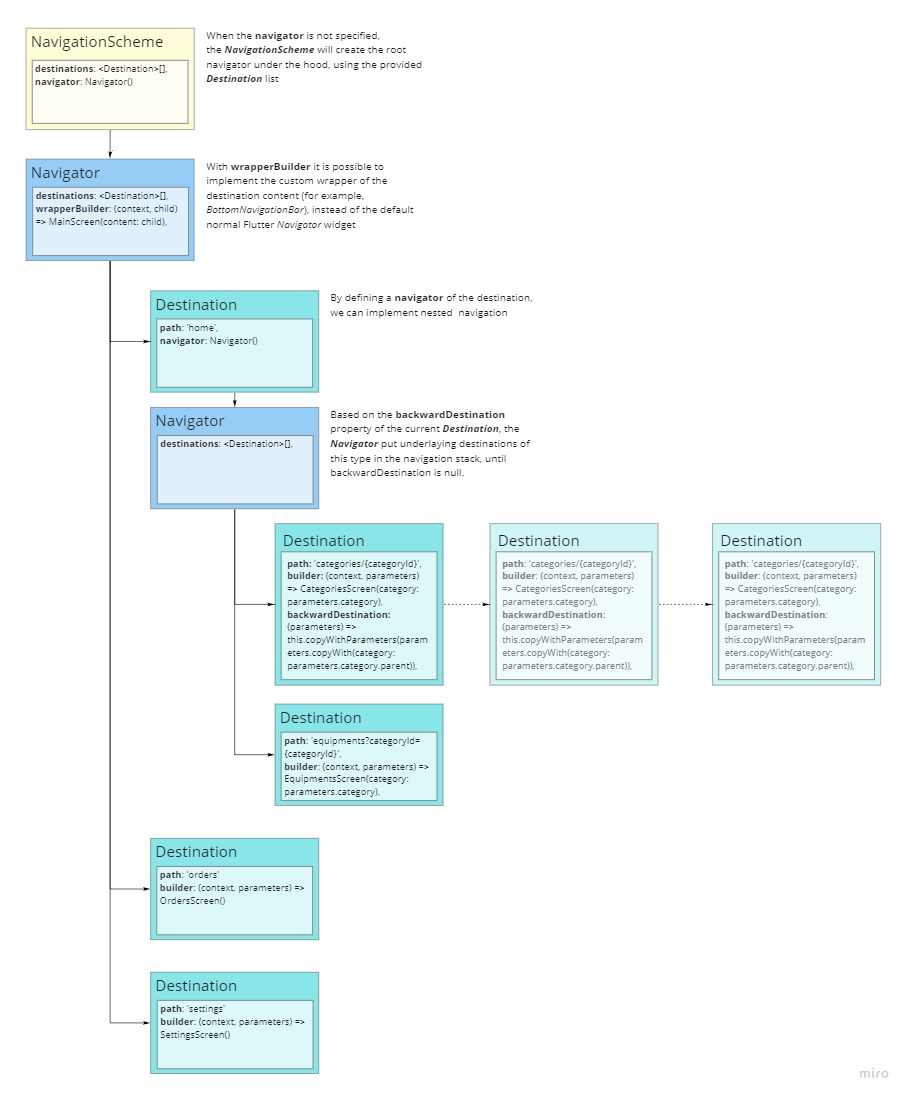
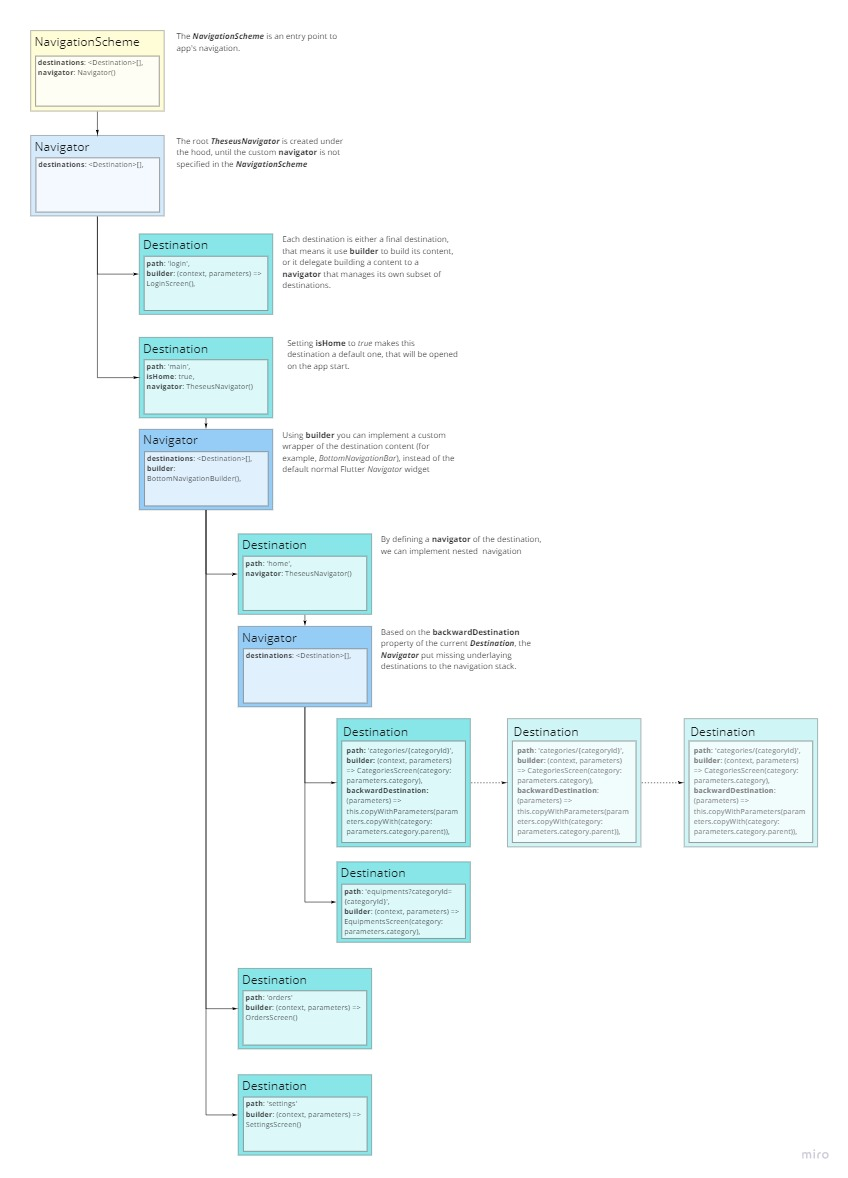
Refactor building the navigator

Changed region(s): [[0.0, 0.0, 0.9811, 0.99]]

diff --git a/lib/navigator.dart b/lib/navigator.dart
@@ -1,6 +1,7 @@
 import 'dart:collection';
 import 'package:flutter/foundation.dart';
 import 'package:flutter/widgets.dart';
+import 'package:theseus_navigator/router_delegate.dart';
 import 'package:utils/utils.dart';
 
 import 'destination.dart';
@@ -29,9 +30,9 @@ import 'exceptions.dart';
 class TheseusNavigator with ChangeNotifier {
   TheseusNavigator({
     required this.destinations,
-    this.initialDestinationIndex = 0,
-    this.wrapperBuilder,
+    this.builder = const DefaultNavigatorBuilder(),
     this.debugLabel = '',
+    this.initialDestinationIndex = 0,
   }) {
     _stack.add(destinations[initialDestinationIndex]);
     key = GlobalKey<NavigatorState>(debugLabel: this.debugLabel);
@@ -40,6 +41,21 @@ class TheseusNavigator with ChangeNotifier {
   /// List of destinations, which this navigator operate of.
   ///
   final List<Destination> destinations;
+
+  /// An implementation of [NavigatorBuilder] that creates a wrapping widget tree around destinations.
+  ///
+  /// Defaults to [DefaultNavigatorBuilder] that wraps destinations to Flutter's
+  /// [Navigator] widget.
+  ///
+  ///
+  /// It can be used when you want, for example, to navigate destinations by
+  /// [TabBar], or [BottomNavigationBar].
+  ///
+  /// See also:
+  /// - [NavigatorBuilder]
+  /// - [DefaultNavigatorBuilder]
+  ///
+  final NavigatorBuilder builder;
 
   /// Index of the initial destination.
   ///
@@ -53,21 +69,12 @@ class TheseusNavigator with ChangeNotifier {
   ///
   final String? debugLabel;
 
-  /// A function to create custom wrapping widget tree around destinations.
-  ///
-  /// It can be used when you want, for example, to navigate destinations by
-  /// [TabBar], or [BottomNavigationBar].
-  ///
-  /// See also:
-  /// - [NavigationWrapperBuilder]
-  ///
-  final NavigatorWrapperBuilder? wrapperBuilder;
-
   /// Provides the global key for corresponding [Navigator] widget.
   ///
   late final GlobalKey<NavigatorState> key;
 
   bool _shouldClose = false;
+
   /// Whether the navigator should close.
   ///
   /// It is set to 'true' when user call [onBack] method when the only destination
@@ -98,6 +105,11 @@ class TheseusNavigator with ChangeNotifier {
   @override
   void dispose() {
     super.dispose();
+  }
+
+  // TODO: Add description
+  Widget build(BuildContext context) {
+    return builder.build(context, this);
   }
 
   /// Opens specified destination.
@@ -180,15 +192,3 @@ class TheseusNavigator with ChangeNotifier {
     return result;
   }
 }
-
-/// The signature of function that builds the navigator's wrapper widget tree.
-///
-/// The [nestedNavigatorBuilder] function should be called to build a wrapper for
-/// nested navigators.
-///
-typedef NavigatorWrapperBuilder = Widget Function(
-  BuildContext context,
-  TheseusNavigator navigator,
-  Widget Function(BuildContext context, TheseusNavigator nestedNavigator)
-      nestedNavigatorBuilder,
-);

diff --git a/lib/router_delegate.dart b/lib/router_delegate.dart
@@ -30,7 +30,7 @@ class TheseusRouterDelegate extends RouterDelegate<Destination>
 
   @override
   Widget build(BuildContext context) {
-    return NavigatorBuilder.build(context, navigationScheme.rootNavigator);
+    return navigationScheme.rootNavigator.build(context);
   }
 
   @override
@@ -55,9 +55,17 @@ class TheseusRouterDelegate extends RouterDelegate<Destination>
   }
 }
 
-class NavigatorBuilder {
-  static Widget defaultWrapperBuilder(
-      BuildContext context, TheseusNavigator navigator) {
+// TODO: Add description
+abstract class NavigatorBuilder {
+  Widget build(BuildContext context, TheseusNavigator navigator);
+}
+
+// TODO: Add description
+class DefaultNavigatorBuilder implements NavigatorBuilder {
+  const DefaultNavigatorBuilder();
+
+  @override
+  Widget build(BuildContext context, TheseusNavigator navigator) {
     return Navigator(
       key: navigator.key,
       pages: navigator.stack
@@ -73,12 +81,6 @@ class NavigatorBuilder {
       },
     );
   }
-
-  static Widget build(BuildContext context, TheseusNavigator navigator) =>
-      navigator.wrapperBuilder == null
-          ? NavigatorBuilder.defaultWrapperBuilder(context, navigator)
-          : navigator.wrapperBuilder!(
-              context, navigator, NavigatorBuilder.build);
 }
 
 class _TheseusPage extends Page {
@@ -95,13 +97,17 @@ class _TheseusPage extends Page {
       case DestinationTransition.material:
         return MaterialPageRoute(
           settings: this,
-          builder: (context) => destination.build(context),
+          builder: (context) => destination.isFinalDestination
+              ? destination.build(context)
+              : destination.navigator!.build(context),
         );
       default:
         return PageRouteBuilder(
           settings: this,
           pageBuilder: (context, animation, secondaryAnimation) =>
-              destination.build(context),
+              destination.isFinalDestination
+                  ? destination.build(context)
+                  : destination.navigator!.build(context),
           transitionsBuilder: (context, animation, secondaryAnimation, child) =>
               child,
         );

diff --git a/README.md b/README.md
@@ -25,45 +25,46 @@ TheseusNavigator is responsible for managing the app navigation state within the
 
 The NavigationScheme is the entry point to navigation and orchestrates all destinations and navigators. It has a root navigator that manages top-level destinations, and optionally additional navigators to support nested/feature navigation.
 
-Here is an example of declaration of a simple navigation scheme:
-
+Here is a possible usage:
+- Define destinations and navigation scheme
 ```dart
-final navigationScheme = NavigationScheme(
-  destinations: [
-    GeneralDestination(
+final homeDestination = GeneralDestination(
       path: 'home',
       builder: (context, parameters) => HomeScreen(),
-    ),
-    GeneralDestination(
+    );
+final ordersDestination = GeneralDestination(
       path: 'orders',
       builder: (context, parameters) => OrdersScreen(),
-    ),
-    GeneralDestination(
+    );
+final settingsDestination = GeneralDestination(
       path: 'settings',
       builder: (context, parameters) => SettingsScreen(),
-    ),
+    ); 
+final navigationScheme = NavigationScheme(
+  destinations: [
+    homeDestination,
+    ordersDestination,
+    settingsDestination,
   ],
 );
-...
+```
+- Setup a Router with your navigation scheme
+```dart
 @override
 Widget build(BuildContext context) {
-  return NavigationSchemeProvider(
-   scheme: navigationScheme,
-   child: MaterialApp.router(
-    ...
+  return MaterialApp.router(
+    //...
     routerDelegate: TheseusRouterDelegate(navigationScheme: navigationScheme),
     routeInformationParser: TheseusRouterInformationParser(navigationScheme: navigationScheme),
-   ),
   ),
 }
 ```
-
-You can navigate to a destination by this way:
-
+- Somewhere in the app to navigate
 ```dart
-onTap: () => navigationScheme.goTo(navigationScheme.findDestination('orders')),
+onTap: () => navigationScheme.goTo(ordersDestination)
 ```
- 
+
+
 
 
 
